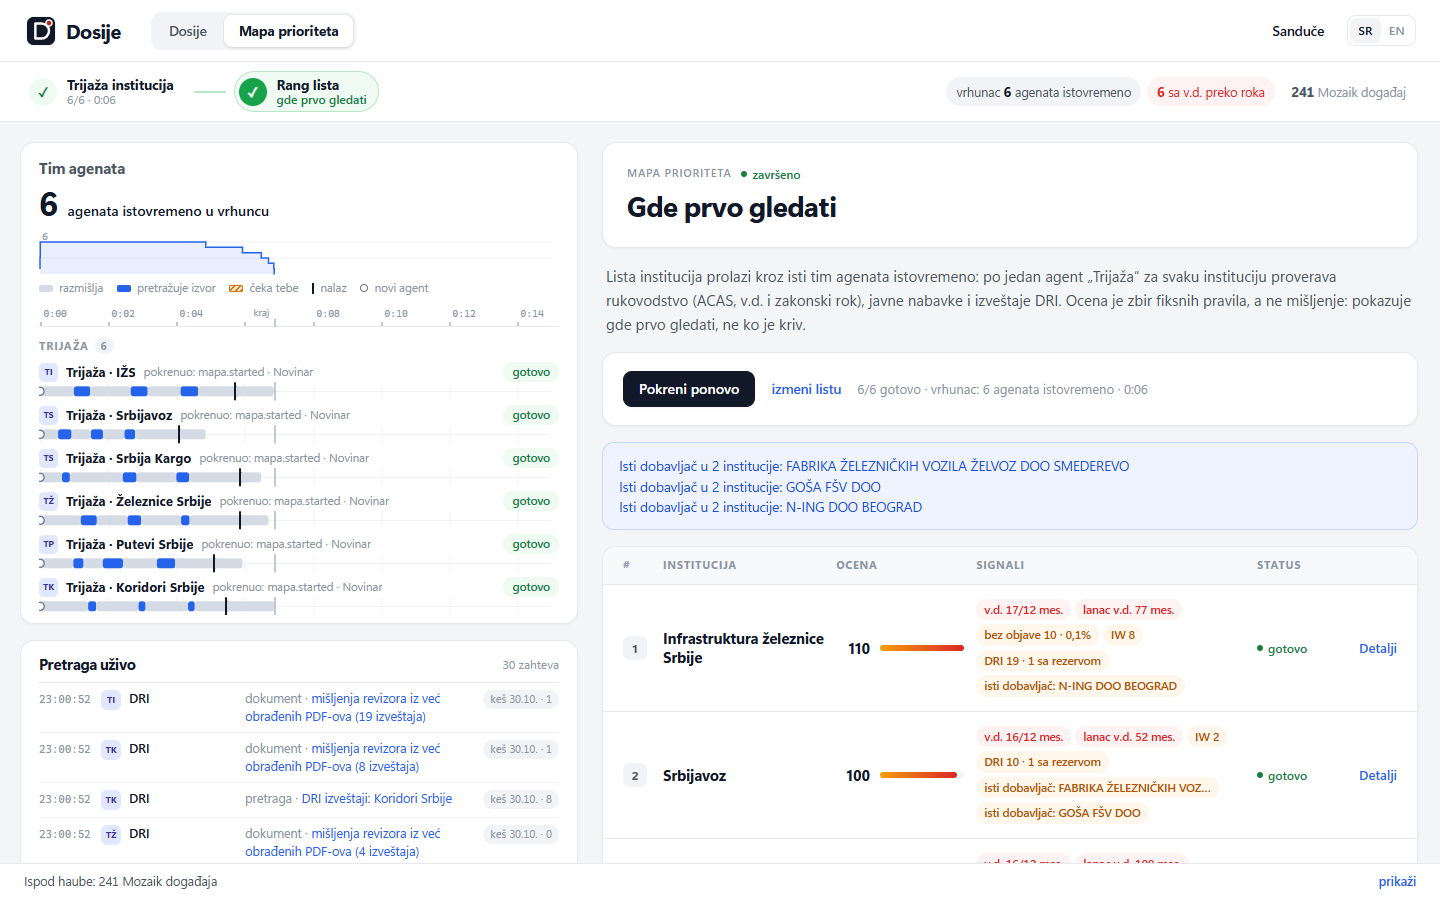
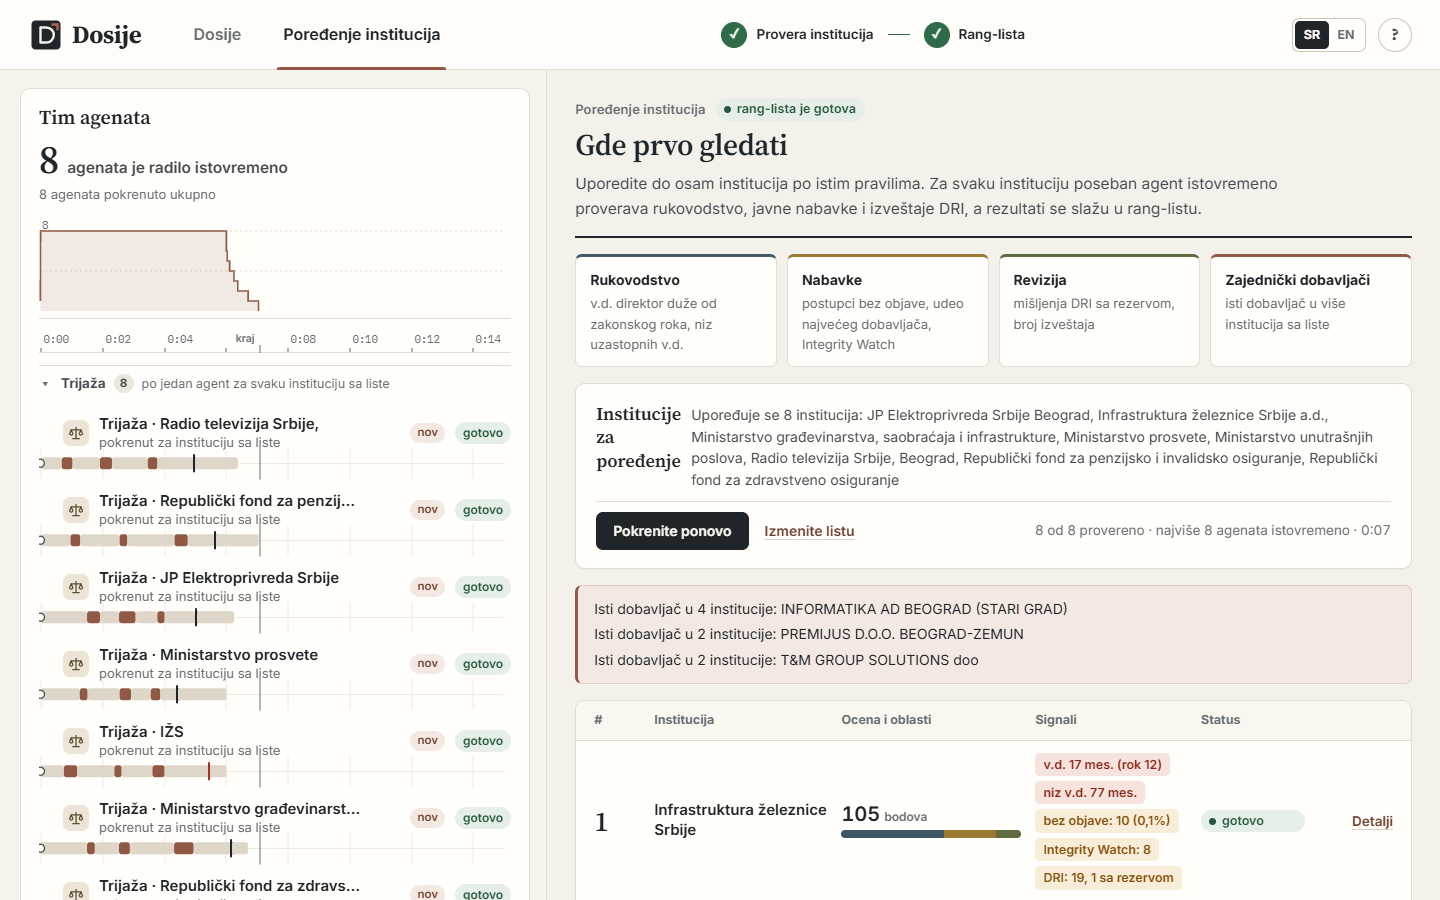
README: current screenshots, Claude, the live site and the phone layout
New screenshots of the app as it is now: the start page, the QR section, the team at work, the dossier, the main
signals, the report, the institution comparison, English and three phone views. The old ones still showed agents
waiting for the journalist's approval. scripts/screenshots.ts (npm run screenshots) makes them again with a headless
Chrome against a server in scripted mode. The text describes dosije.online, Claude, the four current institutions,
leads from the journalist, and run numbers measured on the live site.

diff --git a/scripts/screenshots.ts b/scripts/screenshots.ts
@@ -1,0 +1,210 @@
+// The README screenshots: a headless Chrome, driven over the DevTools protocol, goes through the app like a visitor and
+// writes docs/img/*.png. Run it against a server in scripted mode, so the run is free and the same every time:
+//   DOSIJE_MODE=scripted npm start                     (another terminal; PORT=3007 for another port)
+//   npm run screenshots -- --url http://localhost:3000
+// Chrome is found in the usual places; CHROME_PATH points to another one (Edge works too).
+
+import { spawn } from "node:child_process"
+import fs from "node:fs"
+import os from "node:os"
+import path from "node:path"
+
+const args = process.argv.slice(2)
+const arg = (name: string, fallback: string) => {
+	const i = args.indexOf(`--${name}`)
+	return i >= 0 && args[i + 1] ? args[i + 1] : fallback
+}
+const BASE = arg("url", "http://localhost:3000").replace(/\/$/, "")
+const OUT = path.resolve(arg("out", "docs/img"))
+const PORT = 9333
+const DESKTOP = { width: 1440, height: 900, dpr: 1, mobile: false }
+const PHONE = { width: 390, height: 844, dpr: 2, mobile: true }
+
+const sleep = (ms: number) => new Promise((r) => setTimeout(r, ms))
+
+function chromePath(): string {
+	const candidates = [
+		process.env.CHROME_PATH,
+		"C:/Program Files/Google/Chrome/Application/chrome.exe",
+		"C:/Program Files (x86)/Microsoft/Edge/Application/msedge.exe",
+		"/Applications/Google Chrome.app/Contents/MacOS/Google Chrome",
+		"/usr/bin/google-chrome",
+		"/usr/bin/chromium",
+	]
+	const found = candidates.find((p) => p && fs.existsSync(p))
+	if (!found) throw new Error("Chrome nije pronađen: postavite CHROME_PATH")
+	return found
+}
+
+/** A minimal DevTools protocol client over the WebSocket of one page. */
+class Page {
+	private id = 0
+	private pending = new Map<number, { resolve: (v: any) => void; reject: (e: Error) => void }>()
+	private constructor(private ws: WebSocket) {
+		ws.addEventListener("message", (m) => {
+			const msg = JSON.parse(String(m.data))
+			const p = msg.id !== undefined ? this.pending.get(msg.id) : undefined
+			if (!p) return
+			this.pending.delete(msg.id)
+			if (msg.error) p.reject(new Error(msg.error.message))
+			else p.resolve(msg.result)
+		})
+	}
+
+	static async open(url: string): Promise<Page> {
+		const ws = new WebSocket(url)
+		await new Promise((resolve, reject) => {
+			ws.addEventListener("open", resolve, { once: true })
+			ws.addEventListener("error", reject, { once: true })
+		})
+		return new Page(ws)
+	}
+
+	send(method: string, params: Record<string, unknown> = {}): Promise<any> {
+		const id = ++this.id
+		this.ws.send(JSON.stringify({ id, method, params }))
+		return new Promise((resolve, reject) => this.pending.set(id, { resolve, reject }))
+	}
+
+	async eval<T = unknown>(expression: string): Promise<T> {
+		const r = await this.send("Runtime.evaluate", { expression, awaitPromise: true, returnByValue: true })
+		if (r.exceptionDetails) throw new Error(`${expression}: ${r.exceptionDetails.exception?.description ?? r.exceptionDetails.text}`)
+		return r.result.value as T
+	}
+
+	async waitFor(expression: string, timeoutMs = 30_000, label = expression): Promise<void> {
+		const end = Date.now() + timeoutMs
+		while (Date.now() < end) {
+			if (await this.eval<boolean>(`Boolean(${expression})`).catch(() => false)) return
+			await sleep(250)
+		}
+		throw new Error(`čekao sam predugo: ${label}`)
+	}
+
+	async viewport(v: typeof DESKTOP): Promise<void> {
+		await this.send("Emulation.setDeviceMetricsOverride", { width: v.width, height: v.height, deviceScaleFactor: v.dpr, mobile: v.mobile })
+		await this.send("Emulation.setTouchEmulationEnabled", { enabled: v.mobile, maxTouchPoints: v.mobile ? 5 : 1 })
+	}
+
+	async goto(url: string): Promise<void> {
+		await this.send("Page.navigate", { url })
+		await sleep(300)
+		await this.waitFor(`document.readyState === "complete"`, 20_000)
+	}
+
+	async click(selector: string): Promise<void> {
+		await this.waitFor(`document.querySelector(${JSON.stringify(selector)})`, 20_000, selector)
+		await this.eval(`document.querySelector(${JSON.stringify(selector)}).click()`)
+	}
+
+	async shot(name: string): Promise<void> {
+		await sleep(700)
+		// the start page has a photo behind it: JPEG keeps that small, the rest of the interface stays sharp as PNG
+		const jpeg = name.endsWith(".jpg")
+		const { data } = await this.send("Page.captureScreenshot", jpeg ? { format: "jpeg", quality: 82 } : { format: "png" })
+		fs.writeFileSync(path.join(OUT, name), Buffer.from(data, "base64"))
+		console.log(`  ${name}`)
+	}
+}
+
+/** A visitor of their own: no cookie (a new session) and the interface in the given language. */
+async function freshVisit(page: Page, lang: "sr" | "en"): Promise<void> {
+	await page.send("Network.clearBrowserCookies")
+	await page.goto(`${BASE}/`)
+	await page.eval(`localStorage.clear(); localStorage.setItem("dosije.lang", "${lang}")`)
+	await page.goto(`${BASE}/`)
+	await page.waitFor(`document.querySelectorAll("#heroChips .example").length >= 4`, 20_000, "aktuelne institucije")
+	await sleep(1200)
+}
+
+const startExample = (page: Page, i: number) => page.eval(`document.querySelectorAll("#heroChips .example")[${i}].click()`)
+const caseDone = `!document.getElementById("doneCard").hidden`
+const scrollTo = (page: Page, selector: string, block = "start") => page.eval(`document.querySelector(${JSON.stringify(selector)}).scrollIntoView({ block: "${block}" })`)
+
+async function desktop(page: Page): Promise<void> {
+	await page.viewport(DESKTOP)
+	await freshVisit(page, "sr")
+	await page.shot("00-start.jpg")
+	// the sources carousel and the QR code under it, below the top bar
+	await scrollTo(page, "#srcTitle")
+	await page.eval(`window.scrollBy(0, -110)`)
+	await page.shot("01-try-it.png")
+
+	await startExample(page, 0)
+	// mid-run: the core agents and the ones the Fabrika spawned work at the same time and the first signals are in
+	await page.waitFor(`document.querySelectorAll("#lanesDyn .lane").length >= 8 && document.querySelectorAll("#findList > *").length >= 6`, 60_000, "agenti i prvi nalazi")
+	await sleep(1500)
+	await page.shot("02-team-live.png")
+
+	await page.waitFor(caseDone, 300_000, "dosije je spreman")
+	await page.eval(`document.getElementById("dosijeScroll").scrollTop = 0`)
+	await page.shot("03-done.png")
+	await scrollTo(page, "#signalsBody")
+	await page.eval(`document.getElementById("dosijeScroll").scrollBy(0, -90)`)
+	await page.shot("04-signals.png")
+
+	await page.click("#btnReport")
+	await page.waitFor(`!document.getElementById("reportModal").hidden && document.getElementById("reportBody").textContent.length > 200`, 20_000, "izveštaj")
+	await page.shot("05-report.png")
+	await page.click("#reportClose")
+
+	await page.click("#btnMapa")
+	await sleep(800)
+	// the list starts with the preset institutions
+	await page.click("#btnMapaRun")
+	await page.waitFor(`document.getElementById("mapaStatus").classList.contains("running")`, 20_000, "mapa je pokrenuta")
+	await page.waitFor(`document.getElementById("mapaStatus").classList.contains("done") && document.querySelectorAll("#mapaRows > *").length >= 6`, 240_000, "mapa prioriteta")
+	await page.shot("06-mapa.png")
+
+	// the scripted agents write their findings in Serbian, so the English interface is shown on the start page
+	await freshVisit(page, "en")
+	await page.shot("07-en.jpg")
+}
+
+async function phone(page: Page): Promise<void> {
+	await page.viewport(PHONE)
+	await freshVisit(page, "sr")
+	await page.shot("08-phone-start.jpg")
+	await startExample(page, 2)
+	await page.waitFor(`document.querySelectorAll("#lanesDyn .lane").length >= 3`, 60_000, "agenti na telefonu")
+	await sleep(3000)
+	await page.shot("09-phone-team.png")
+	// when the dossier is ready the phone switches to it on its own
+	await page.waitFor(caseDone, 300_000, "dosije je spreman (telefon)")
+	await sleep(1500)
+	await page.shot("10-phone-dossier.png")
+}
+
+async function main(): Promise<void> {
+	const config = await (await fetch(`${BASE}/api/config`)).json()
+	if (config.mode !== "scripted") console.log(`Server radi u režimu ${config.mode}: svaki dosije troši LLM kredite.`)
+	fs.mkdirSync(OUT, { recursive: true })
+	const profile = fs.mkdtempSync(path.join(os.tmpdir(), "dosije-shots-"))
+	const chrome = spawn(chromePath(), ["--headless=new", `--remote-debugging-port=${PORT}`, `--user-data-dir=${profile}`, "--no-first-run", "--hide-scrollbars", "--window-size=1440,900", "about:blank"], { stdio: "ignore" })
+	try {
+		let target: { type: string; webSocketDebuggerUrl: string } | undefined
+		for (let i = 0; i < 60 && !target; i++) {
+			await sleep(250)
+			const list = await fetch(`http://127.0.0.1:${PORT}/json/list`).then((r) => r.json() as Promise<{ type: string; webSocketDebuggerUrl: string }[]>).catch(() => [])
+			target = list.find((t) => t.type === "page")
+		}
+		if (!target) throw new Error("Chrome nije otvorio stranicu")
+		const page = await Page.open(target.webSocketDebuggerUrl)
+		await page.send("Page.enable")
+		await page.send("Network.enable")
+		await page.send("Emulation.setTimezoneOverride", { timezoneId: "Europe/Belgrade" })
+		console.log(`slike u ${OUT}`)
+		await desktop(page)
+		await phone(page)
+	} finally {
+		chrome.kill()
+	}
+}
+
+main().then(
+	() => process.exit(0),
+	(err) => {
+		console.error(err)
+		process.exit(1)
+	},
+)

diff --git a/README.md b/README.md
@@ -1,42 +1,60 @@
 # Dosije
 
-**From breaking news to a sourced dossier on a Serbian public institution, in minutes.** A team of concurrent
-[Mozaik](https://docs.jigjoy.ai) agents searches public registers live, and the journalist is a member of the team.
-It shows signals for verification, never verdicts.
+**From breaking news to a sourced dossier on a Serbian public institution, in about two minutes.** A team of concurrent
+[Mozaik](https://docs.jigjoy.ai) agents searches public registers live and the journalist works alongside them. It shows
+signals for verification, never verdicts.
 
+**Live: [dosije.online](https://dosije.online)**. Scan the code on the start page to run it on your phone.
 
-![Agents working at the same time; the Kadrovik waits for the journalist while the others continue](docs/img/01-team-live.png)
+![Twelve agents at work at the same time: the four core agents, the editor and one agent per supplier the team found](docs/img/02-team-live.png)
 
-## Try it in 60 seconds (no API key)
+## Try it
+
+Online at **[dosije.online](https://dosije.online)**, or locally in 60 seconds without an API key:
 
 ```bash
 npm install
 npm start          # open http://localhost:3000
 ```
 
-The bar under the top bar walks you through the flow: **Tim istražuje → Tvoje odluke → Dosije je spreman**.
-
-1. On the start screen, click one of the four current institutions, each chosen for a different kind of signal: **Putevi
-   Srbije** (an acting director since 2013), **PIO Fond** (suppliers flagged for political ties), **Skijališta Srbije**
-   (contracts larger than the suppliers' revenue) and **RFZO** (RSD 2 bn without a public call). Or type any institution. Four agents
-   start in the same instant. Every supplier and official they find spawns another agent.
-2. Watch the left column: one timeline lane per agent, and **"Pretraga uživo"**, where every request to a public
-   register appears live with the agent that made it and a link.
-3. After about 10 s, **"Tvoje odluke"** lights up and the question appears at the top of the dossier: **"Kadrovik traži
-   tvoje odobrenje"**. Click **Ubaci u izveštaj**. Only the Kadrovik paused; the rest kept working. Skip or answer the
-   owner questions the same way.
-4. The Mediji and Revizor lanes show **"reaguje na nalaz"**: agents react to each other's findings.
-5. When the bar turns green, the **"Dosije je spreman"** card opens the report (exports to `.md` or PDF) and the list
-   of what still needs checking. Then switch to **Poređenje institucija** in the top bar: eight institutions in parallel.
+1. On the start page, click one of the four current institutions, each chosen for a different kind of signal:
+   **Putevi Srbije** (an acting director since 2013), **PIO Fond** (suppliers flagged for political ties),
+   **Skijališta Srbije** (contracts larger than the suppliers' revenue) and **RFZO** (RSD 2 bn without a public call).
+   Or type any institution.
+2. Four agents start in the same instant. Every supplier, official and owner they find spawns another agent. The left
+   column shows one timeline lane per agent and **"Pretraga uživo"**: every request to a public register, live, with
+   the agent that made it.
+3. The Mediji and Revizor lanes show **"reaguje na nalaz"**: agents react to each other's findings. While the team
+   works you can add your own lead (**Dodajte trag**, a person or a company), and agents start on it at once.
+4. The bar at the top goes **Prikupljanje podataka → Sažetak urednika → Dosije je spreman**. The editor ranks the main
+   signals and writes the summary; **Otvorite izveštaj** opens the report with sources and a checklist of what still
+   needs a human, and it exports to `.md` or PDF.
+5. **Poređenje institucija** in the top bar compares eight institutions in parallel, one agent each, in one ranking.
    **SR | EN** switches the interface language.
 
-**How it runs without a key, and with one:**
+On a phone the same app has one switch, **Dosije | Tim agenata**: it shows the team while the agents work and moves to
+the dossier when it is ready.
+
+**With an API key and without one:**
+- With `ANTHROPIC_API_KEY` in `.env` the agents run on Claude: the workers on `claude-sonnet-5-5`, the editor
+  (Urednik) on `claude-opus-5-5`. `OPENAI_API_KEY` works too (`gpt-5.4-mini` / `gpt-5.4`). This is how
+  dosije.online runs.
 - Without a key, a deterministic inference runner sits in Mozaik's official runner slot. Everything else is real: the
-  runtime, loops, tools, events, shared state, interception, and real public data, cached locally in
-  `data/cache/` (gitignored) after the first lookup.
-- For real LLM agents, put `ANTHROPIC_API_KEY` or `OPENAI_API_KEY` in `.env`. With Claude the workers use
-  `claude-sonnet-5-5` and the editor `claude-opus-5-5`; with OpenAI, `gpt-5.4-mini` and `gpt-5.4`.
+  runtime, loops, tools, events, shared state, interception, and real public data, cached in `data/cache/` (gitignored)
+  after the first lookup. The screenshots here are from this mode.
 - Requires Node 20 or newer. npm may print `allow-scripts` warnings; they are harmless.
+
+| ![Start page](docs/img/00-start.jpg) | ![Try it on your phone](docs/img/01-try-it.png) |
+|---|---|
+| Start: type an institution or pick one of the four current ones. | "Probajte sami": scan the code and run your own dossier. |
+| ![Dossier ready](docs/img/03-done.png) | ![Main signals](docs/img/04-signals.png) |
+| The dossier is ready: how long it took, how many agents, the report and the PDF. | The main signals, ranked by the editor; each one with its source and status. |
+| ![Report](docs/img/05-report.png) | ![Institution comparison](docs/img/06-mapa.png) |
+| The report: what the dossier is and is not, sources, statuses and a checklist. | Poređenje institucija: eight agents at once, one ranking and the suppliers they share. |
+
+| ![Phone: start](docs/img/08-phone-start.jpg) | ![Phone: the team at work](docs/img/09-phone-team.png) | ![Phone: the dossier](docs/img/10-phone-dossier.png) | ![English](docs/img/07-en.jpg) |
+|---|---|---|---|
+| Phone: the start page. | The team while it works. | The dossier, opened on its own when ready. | The same interface in English. |
 
 ## What it is
 
@@ -46,42 +64,48 @@ When news breaks about an institution, a journalist needs to know three things f
 - what the state auditor found.
 
 Today that is half a day across ACAS, the procurement portal, APR, DRI PDFs and old news. Dosije does it in minutes.
-Every claim has a link, a date and a status, and the dossier ends with a checklist of what still needs a human. It is
-built for journalists, for transition teams taking stock of an institution, and for citizens checking a claim.
+Every claim has a link, a date and a status (official, confirmed by two sources, or unconfirmed), and the dossier ends
+with a checklist of what still needs a human. It is built for journalists, for transition teams taking stock of an
+institution, and for citizens checking a claim.
 
 ## How the agents work together
 
-- **There is no orchestrator; agents react to events on one Mozaik bus.**
-  - `dosije.started` starts four loops at once.
-  - `entity.added` makes the Fabrika participant spawn a specialist per supplier, official or owner.
+- **There is no orchestrator; agents react to events on one Mozaik bus.** Each agent runs its own loop with its own
+  context.
+  - `dosije.started` starts four loops at once: **Kadrovik** (who runs it and the acting-head rules: ACAS, the law
+    text), **Nabavke** (procurement portal, Integrity Watch), **Revizor** (DRI audit reports) and **Mediji** (news).
+  - `entity.added` makes the Fabrika participant spawn specialists while the others keep working: **Firme** per supplier
+    (APR, contracts, revenue against contract value, owners), **Imovina** and **Mediji** per official, **Provera** and
+    **Mediji** per company owner (is this person an official or politically exposed: ACAS, OpenSanctions, KRIK).
   - `finding.added` from *another* agent triggers a reaction:
     - Kadrovik's "acting head past the limit" sends Mediji to check how outlets reported the appointment.
-    - Nabavke's "no public call" sends the Revizor after earlier DRI findings.
-  - The journalist's answer is an event that starts new work.
-- **Shared state.** `DosijeState` holds the dossier. The Urednik merges duplicates, assigns statuses and resolves
-  conflicts; the official register wins.
-- **Interception.** A gate on every loop rejects claims without a source and holds sensitive signals for the
-  journalist. Only that loop waits.
+    - Nabavke's "no public call" or supplier concentration sends the Revizor after earlier DRI findings on the topic.
+    - A DRI finding sends Mediji after the coverage of that audit.
+  - The journalist is a participant too: a lead they add is an `entity.added` like any other and spawns agents;
+    "Završite sada" closes the case for everyone.
+- **Shared state.** `DosijeState` holds the dossier: the institution's identity (PIB, MB, register IDs), entities,
+  findings with sources, conflicts, budget and stats. Agents build on what the others found instead of passing
+  messages. The Urednik merges duplicates, assigns statuses and resolves conflicts; the official register wins.
+- **Interception.** A gate on every loop checks every tool call: a closed case, the budget, personal data, and claims
+  without a source, which it rejects. Blocking approval of sensitive signals and questions to the journalist are built in
+  (only the asking loop waits; `DOSIJE_APPROVALS`, `DOSIJE_ASK_HUMAN`) and switched off on dosije.online, so a visitor
+  gets the whole dossier without waiting.
 - **Live search.** Every source request is an `izvor.upit` event, attributed to its agent.
-- **A typical run:** a peak of 13-14 concurrent loops and about 20 agents, 14 of them spawned at runtime, with about
-  770 Mozaik events in about 27 s. Tests assert the concurrency, spawning, blocking and conflict resolution.
+- **A typical run with Claude** (the four current institutions on dosije.online): 27-30 loops, 11-16 of them at once
+  at the peak, 125-140 model calls, about 100-110 tool calls and 1,000-1,150 Mozaik events in under two minutes. In
+  scripted mode: 25 agents, up to 18 at once, in about 40 s.
+  Tests assert the concurrency, spawning, blocking and conflict resolution.
 
 The concept-by-concept map to the code is in [docs/HOW_IT_WORKS.md](docs/HOW_IT_WORKS.md).
 
-## What it found (real data, Infrastruktura železnice Srbije)
+## What it found (real data, the four current institutions)
 
 | Signal for verification | Source |
 |---|---|
-| The acting director (v.d.) has served 17 months; the legal maximum is 12 (Law 76/2023, art. 23). | ACAS, law text |
-| Only acting directors since May 2020. DRI flagged an acting director serving over two years in 2020. | ACAS, DRI |
-| 1,537 contracts (65.36 bn RSD). Ten negotiated procedures without a public call. | Portal javnih nabavki |
-| The media say "generalni direktor", the register says "v.d.". The claim is marked as differing from the register. | ACAS vs RTV |
-
-| ![Start](docs/img/00-start.png) | ![Decisions](docs/img/02-inbox-approval.png) | ![Dossier ready](docs/img/04-done.png) |
-|---|---|---|
-| Start: an institution or a news link, or one of the examples. | Your decision, on the dossier. Only the asking agent pauses. | The dossier is ready: report, export and what to verify. |
-| ![Report](docs/img/05-report.png) | ![Mapa prioriteta](docs/img/06-mapa.png) | ![English](docs/img/07-en.png) |
-| The report, with sources and a verification checklist. | Six triage agents at once, one ranking. | The same interface in English. |
+| Putevi Srbije: the same acting director (v.d.) since 29 November 2013, 155 months; the legal maximum is 12. | ACAS, law text, DRI |
+| RFZO: 161 negotiated procedures without a public call, RSD 2.03 bn (16.7% of the contract value). | Portal javnih nabavki |
+| Skijališta Srbije: a supplier's contracts with the company (RSD 1.44 bn) exceed its own annual revenue (RSD 1.28 bn). | Portal javnih nabavki, APR |
+| PIO Fond: suppliers flagged by Integrity Watch for ties to officials and parties; a supplier's owner shares a name with an official in the ACAS register (a name match, not a proven identity). | Integrity Watch, CompanyWall, ACAS, OpenSanctions |
 
 ## Commands
 
@@ -92,13 +116,16 @@ The concept-by-concept map to the code is in [docs/HOW_IT_WORKS.md](docs/HOW_IT_
 | `npm run mapa` | the institution comparison from the terminal |
 | `npm run qa` | checks every finding's source, link and attribution |
 | `npm run load -- --url <server> --users 20` | N visitors at once, each with their own cookie and dossier; checks nobody sees another's case |
+| `npm run screenshots -- --url <server>` | the images in this README: a headless Chrome goes through the app (start the server with `DOSIJE_MODE=scripted`) |
 
 ## Many visitors at once (Docker)
 
 Every visitor (a cookie) gets a session of their own: a complete engine in its own worker thread, so twenty people can
-each run a dossier at the same time. The APR index is kept once for all of them, and limits shared by every session
-cap the parallel LLM calls (`LLM_CONCURRENCY_TOTAL`) and the requests to each public register (`HTTP_PER_HOST_TOTAL`).
-When every place is taken (`DOSIJE_MAX_SESSIONS`, 24), a new visitor sees a page that says so and retries on its own.
+each run a dossier at the same time. The APR index is kept once for all of them. Limits shared by every session cap the
+parallel LLM calls (`LLM_CONCURRENCY_TOTAL`, 20, under the API's limit of requests in flight) and the requests to each
+public register (`HTTP_PER_HOST_TOTAL`). When every place is taken (`DOSIJE_MAX_SESSIONS`, 24), a new visitor sees a
+page that says so and retries on its own. If an account runs out of credits, the session goes on with the scripted
+policies instead of ending with an empty dossier.
 
 ```bash
 docker compose up -d --build          # listens on 127.0.0.1:3100, keys from .env

diff --git a/docs/HOW_IT_WORKS.md b/docs/HOW_IT_WORKS.md
@@ -12,7 +12,7 @@ For a **transition team or a new government**: a *list* of institutions goes thr
 parallel**, and the output is a live rank list "gde prvo gledati". It is also the strongest visual proof of
 concurrency: one **"Trijaža · <institucija>"** agent per institution, all running at the same moment.
 
-![Mapa prioriteta: six Trijaža agents, one live ranking](img/06-mapa.png)
+![Poređenje institucija: eight Trijaža agents at once, one ranking](img/06-mapa.png)
 
 - **From the UI:** click **"Poređenje institucija"** in the header, edit the list (one field per institution, or paste a
   list; at most 8; it starts with the current institutions in `data/static/mapa-preset.json`) and click **"Pokrenite
